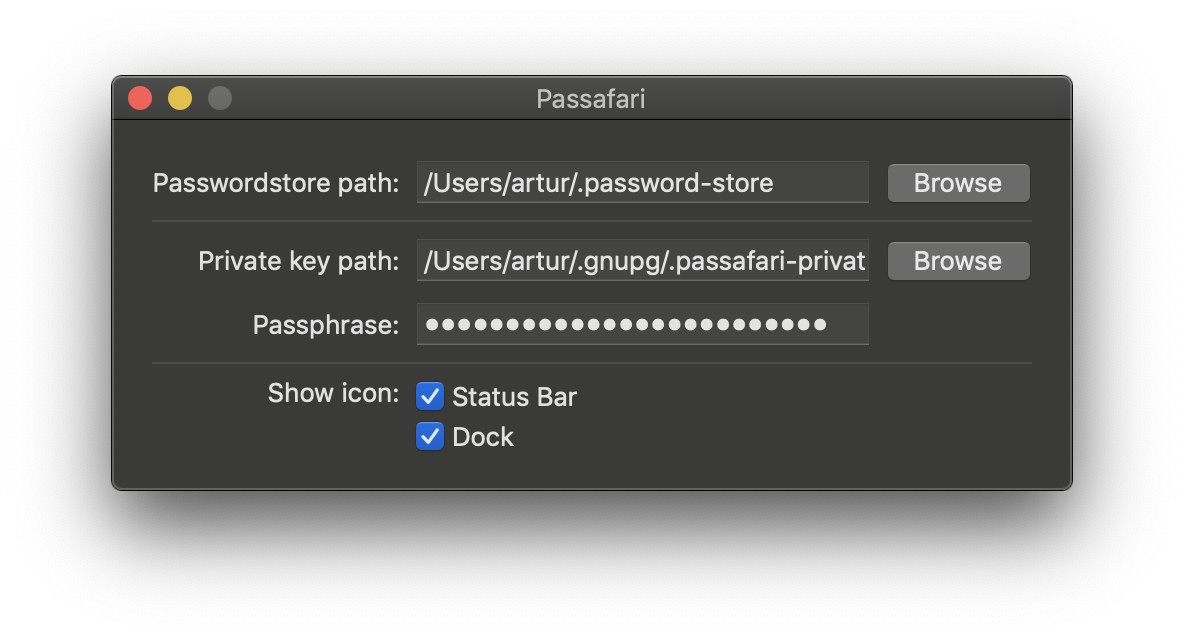
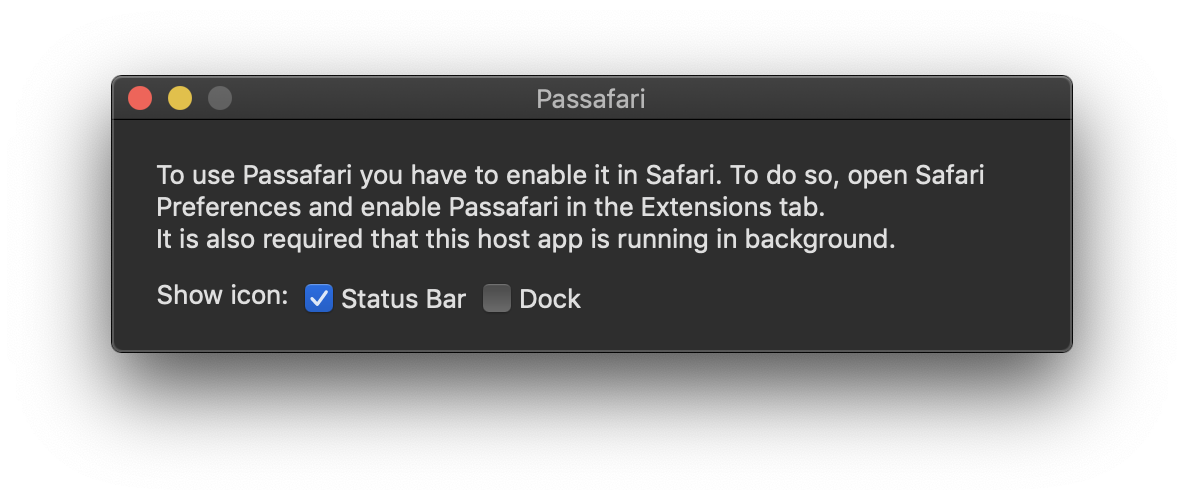
Update README to reflect the new sandbox-less version (closes #9)

Changed region(s): [[0.0938, 0.24, 0.9062, 0.87], [0.0938, 0.09, 0.9062, 0.24]]

diff --git a/README.md b/README.md
@@ -1,9 +1,9 @@
 # Passafari
 
-**Note: Passafari is currenlty a beta. Consider it broken expect errors and crashes.**
+**Note: Passafari is currenlty a beta. Consider it broken, and expect errors and crashes.**
 
 Passafari is a Safari extension for zx2c4's pass, the standard UNIX password manager. It retrieves your decrypted passwords for the current domain and allows you to auto-fill login forms.
-It uses Apples new [Safari App Extensions](https://developer.apple.com/documentation/safariservices/safari_app_extensions) API to communicate with a native sandboxed host app to do the security related stuff.
+It uses Apples new [Safari App Extensions](https://developer.apple.com/documentation/safariservices/safari_app_extensions) API to communicate securely with a native host app.
 
 ### Features
 * Automatically searches passwords for the current domain.
@@ -14,8 +14,7 @@ It uses Apples new [Safari App Extensions](https://developer.apple.com/documenta
 ### Limitations
 * The popover view can not be shown using the shortcut. Therefore, the first password for the current domain will be autofilled if multiple exist.
 * OTP is not supported.
-* Due to sandboxing restrictions, you have to export the private key and import into Passafari (you will be guided through these steps).
-* Passafari was currently only tested using macOS Mojave and Safari 12, although it should work starting with macOS Sierra.
+* Passafari was currently only tested using macOS Mojave with Safari 12 and 13, although it should work starting with macOS Sierra.
 
 ## Table of Contents
 * [Requirements](#requirements)
@@ -35,7 +34,7 @@ login: John Appleseed
 ```
 
 ## Installation
-You have two options to use Passafari: build it yourself or use the releases. I plan to publish it using the Mac App Store and brew once it leaves the beta.
+You have two options to use Passafari: build it yourself or use the releases. I plan to publish it via homebrew once it leaves the beta.
 
 ### Option 1: Use the Releases
 Download the latest version of the app from the releases page and drop it in your applications folder (or where ever you want). Thats it.
@@ -43,21 +42,16 @@ Download the latest version of the app from the releases page and drop it in you
 If you want to update Passafari, replace the `Passafari.app` file with the newer version.
 
 ### Option 2: Build it yourself
-You can  build Passafari yourself, which unfortunately is not as straight forward as it could be. Here are the required steps.
-
-#### Cocoapods
-We try to have as few dependencies as possible. But there still is one dependency, which can not be avoided. Therefore, you will beed Cocoapods. Use the [official guide](https://guides.cocoapods.org/using/getting-started.html) to install Cocoapods.
+You can  build Passafari yourself. Here are the required steps.
 
 #### Checkout and prepare
-Checkout this repo and install the dependencies using Cocoapods:
+First, checkout the repository:
 
 ```
 $ git clone git@github.com:adur1990/Passafari.git
-$ cd passafari
-$ pod install
 ```
 
-Now, open the `passafari.xcworkspace` file (NOT `passafari.xcodeproj`), go to the General tab of the `passafari`.
+Now, open the `passafari.xcodeproj`, go to the General tab of `passafari` target.
 Here, check "Automatically manage signing" in the Signing section and select your own Team.
 Do the same for the `extension` target.
 
@@ -69,37 +63,7 @@ For updates, simply pull the version you want from the repo and build it again.
 
 ## Usage
 
-### Running for the first time
-Before running the extension for the first time, you have to setup the host app. Therefore, start `Passafari.app` and follow the on-screen instructions as follows (all settings can be changed afterwards):
-
-<figure>
-	<center>
-		<img src="Screenshots/second.png" width="500">
-		<figcaption>1: Path to Pass</figcaption>
-	</center>
-</figure>
-
-Pass stores files by default in `~/.password-store`. Since Passafari is sandboxed for security reasons, you have to give permissions to Passafari to access these files. To do so, click on "Browse" and select the password store folder.
-
-<figure>
-	<center>
-		<img src="Screenshots/third.png" width="500">
-		<figcaption>2: Path to Private Key</figcaption>
-	</center>
-</figure>
-
-After that, Passafari needs your private key. Again, since Passafari is sandboxed, you have to give permissions to access the private key. Further, Passafari is (currently?) not able to import the raw key from disk, but you have to export it first using the command displayed in the textfield. After that, again click on "Browse" and select the folder, where you exported the private key to. **Do not change the filename!**
-
-<figure>
-	<center>
-		<img src="Screenshots/fourth.png" width="500">
-		<figcaption>3: Passphrase for Private Key</figcaption>
-	</center>
-</figure>
-
-Finally, you can provide the passphrase for your private key. If you do, the key will be stored securely in the macOS keychain. If you don't have a passphrase or do not want it to be stores, just leave this empy and finalize the setup. You will be asked for the passphrase every time you use the Safari extension.
-
-That's it. You are ready to use Passafari. To do so, start Safari, go to Preferences and enable the extension.
+To use Passafari, start Safari, go to Preferences and enable the extension.
 
 ### The host app
 <figure>
@@ -112,8 +76,6 @@ That's it. You are ready to use Passafari. To do so, start Safari, go to Prefere
 Since Passafari uses the host app to handle the security related password stuff, it has to run all the time. But you can safely close the window, just leave the app running.
 
 Further, you can decide if an icon should be shown in the dock or the status bar or both or none.
-And finally, you can change all settings from the first run setup.
-In particular, you can change your passphrase or delete it from the macOS keychain by clearing the password field.
 
 ### The extension
 The extension has two modes. You can click the toolbar item or use a shortcut.
